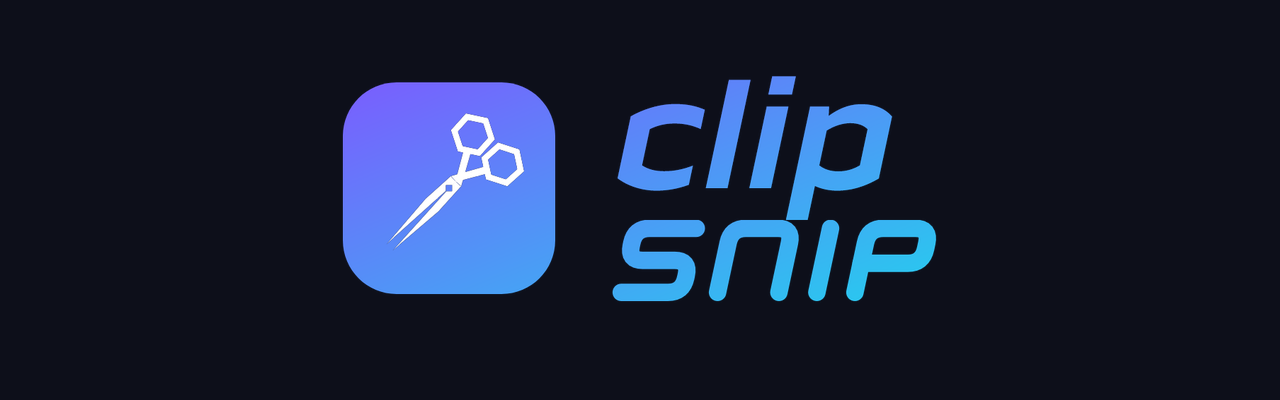
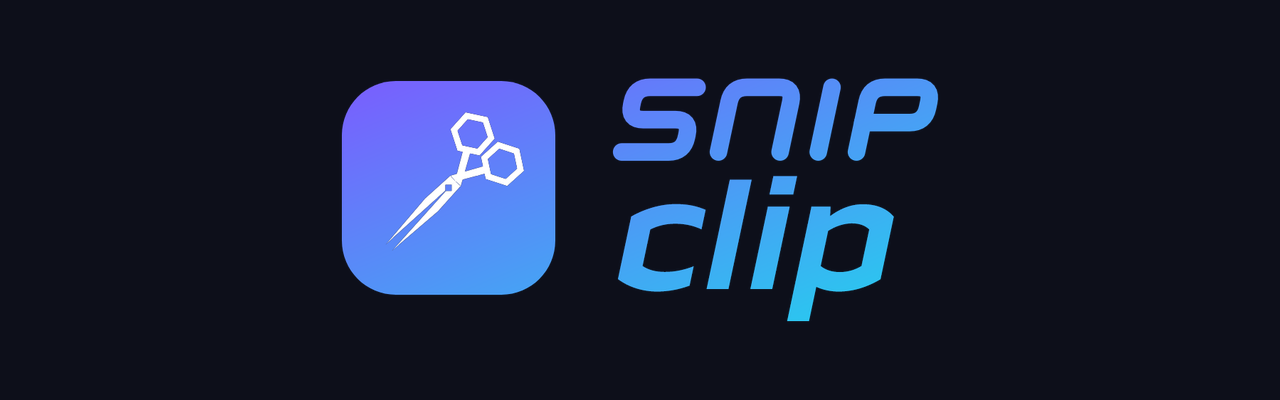
Rename the app to snip-clip
Badge and banners back to the original "SNIP / clip" art. App name, window
title, bundle identifier (io.github.snipclip.app), Rust crate, OBS profile
("snip-clip Replay") and all docs updated.

diff --git a/src/i18n/pt-BR.ts b/src/i18n/pt-BR.ts
@@ -7,7 +7,7 @@ const ptBR: Messages = {
   },
   ffmpeg: {
     missingTitle: "O FFmpeg é necessário",
-    missingBody: "O clip-snip usa o FFmpeg para ler, pré-visualizar e exportar vídeos. Ele não foi encontrado neste computador.",
+    missingBody: "O snip-clip usa o FFmpeg para ler, pré-visualizar e exportar vídeos. Ele não foi encontrado neste computador.",
     missingHow: "Por enquanto, instale o FFmpeg e deixe-o no PATH, depois tente de novo. O download pelo app está a caminho.",
     retry: "Tentar de novo",
   },

diff --git a/src/i18n/en.ts b/src/i18n/en.ts
@@ -5,7 +5,7 @@ const en = {
   },
   ffmpeg: {
     missingTitle: "FFmpeg is required",
-    missingBody: "clip-snip uses FFmpeg to read, preview and export videos. It was not found on this computer.",
+    missingBody: "snip-clip uses FFmpeg to read, preview and export videos. It was not found on this computer.",
     missingHow: "For now, install FFmpeg and make sure it is on your PATH, then retry. An in-app download is coming.",
     retry: "Retry",
   },

diff --git a/src/ui/Brand.tsx b/src/ui/Brand.tsx
@@ -5,7 +5,7 @@ export function Badge({ className = "" }: { className?: string }) {
   return (
     <span
       role="img"
-      aria-label="clip-snip"
+      aria-label="snip-clip"
       className={`inline-block text-brand-500 [--badge-inner:#fff] [&>svg]:h-full [&>svg]:w-auto ${className}`}
       dangerouslySetInnerHTML={{ __html: badgeSvg }}
     />

diff --git a/tests/integration.test.ts b/tests/integration.test.ts
@@ -12,7 +12,7 @@ import {
 } from "../src/core";
 
 const hasFfmpeg = spawnSync("ffmpeg", ["-version"]).status === 0;
-const dir = mkdtempSync(join(tmpdir(), "clip-snip-it-"));
+const dir = mkdtempSync(join(tmpdir(), "snip-clip-it-"));
 
 function makeSource(name: string, hdr: boolean): string {
   const out = join(dir, name);

diff --git a/index.html b/index.html
@@ -4,7 +4,7 @@
     <meta charset="UTF-8" />
     
     <meta name="viewport" content="width=device-width, initial-scale=1.0" />
-    <title>clip-snip</title>
+    <title>snip-clip</title>
   </head>
 
   <body>

diff --git a/extras/obs/obs-setup.py b/extras/obs/obs-setup.py
@@ -1,4 +1,4 @@
-"""Creates an OBS Studio profile and scene collection, "clip-snip Replay", tuned for clip-snip (Windows).
+"""Creates an OBS Studio profile and scene collection, "snip-clip Replay", tuned for snip-clip (Windows).
 
 Replay buffer always on, one audio track per source (game, Discord, browser, mic, system),
 saved with a hotkey. Close OBS before running. The current profile and collection with the
@@ -19,7 +19,7 @@ import sys
 import uuid
 from datetime import datetime
 
-NAME = "clip-snip Replay"
+NAME = "snip-clip Replay"
 BASIC = os.path.join(os.environ.get("APPDATA", ""), "obs-studio", "basic")
 PROFILE_DIR = os.path.join(BASIC, "profiles", NAME)
 COLLECTION = os.path.join(BASIC, "scenes", NAME.replace(" ", "_") + ".json")

diff --git a/src-tauri/src/files.rs b/src-tauri/src/files.rs
@@ -104,7 +104,7 @@ mod tests {
 
     #[test]
     fn write_read_and_prune() {
-        let dir = std::env::temp_dir().join(format!("clip-snip-files-{}", std::process::id()));
+        let dir = std::env::temp_dir().join(format!("snip-clip-files-{}", std::process::id()));
         let file = dir.join("nested").join("p.json");
         let path = file.to_string_lossy().to_string();
         assert_eq!(read_text(path.clone()).unwrap(), None);

diff --git a/src-tauri/src/main.rs b/src-tauri/src/main.rs
@@ -2,5 +2,5 @@
 #![cfg_attr(not(debug_assertions), windows_subsystem = "windows")]
 
 fn main() {
-    clip_snip_lib::run()
+    snip_clip_lib::run()
 }

diff --git a/extras/obs/README.pt-BR.md b/extras/obs/README.pt-BR.md
@@ -2,7 +2,7 @@
 
 [English](README.md) · **Português**
 
-Isto configura o OBS Studio no Windows como um gravador de "replay instantâneo" sempre ligado: os últimos minutos ficam na memória e são salvos num arquivo quando você aperta **Alt+F10**. Cada fonte de áudio ganha uma faixa própria com nome, então no clip-snip você pode tirar o Discord ou o navegador de um clipe, ou abaixar o microfone.
+Isto configura o OBS Studio no Windows como um gravador de "replay instantâneo" sempre ligado: os últimos minutos ficam na memória e são salvos num arquivo quando você aperta **Alt+F10**. Cada fonte de áudio ganha uma faixa própria com nome, então no snip-clip você pode tirar o Discord ou o navegador de um clipe, ou abaixar o microfone.
 
 | Faixa | Nome | Conteúdo |
 |---|---|---|
@@ -36,7 +36,7 @@ python obs-setup.py --lang pt
 
 Se `python` abrir a Microsoft Store, use `py obs-setup.py --lang pt`.
 
-Isso cria um perfil e uma coleção de cenas, ambos chamados **clip-snip Replay**, com:
+Isso cria um perfil e uma coleção de cenas, ambos chamados **snip-clip Replay**, com:
 
 - buffer de 3 minutos, salvo com **Alt+F10**
 - a resolução da sua tela principal a 60 fps
@@ -44,7 +44,7 @@ Isso cria um perfil e uma coleção de cenas, ambos chamados **clip-snip Replay*
 - replays salvos em `Vídeos\OBS Replays`
 - Chrome e Firefox na faixa Navegador
 
-Seus outros perfis do OBS não são alterados. Se já existir um perfil **clip-snip Replay**, ele é copiado antes para `%APPDATA%\obs-studio\basic\backup-<data>\`.
+Seus outros perfis do OBS não são alterados. Se já existir um perfil **snip-clip Replay**, ele é copiado antes para `%APPDATA%\obs-studio\basic\backup-<data>\`.
 
 ### Opções
 
@@ -90,15 +90,15 @@ Agora o OBS inicia junto com o Windows, pronto para salvar replays. Você també
 
 ### Manualmente, dentro do OBS
 
-1. Menu **Perfil** → **clip-snip Replay**.
-2. Menu **Coleção de cenas** → **clip-snip Replay**.
+1. Menu **Perfil** → **snip-clip Replay**.
+2. Menu **Coleção de cenas** → **snip-clip Replay**.
 3. Clique em **Iniciar buffer de replay** no painel *Controles*.
 
 ## 5. Confira se funciona
 
 1. Toque algo por alguns segundos: um jogo, uma call no Discord, um vídeo no navegador.
 2. Aperte **Alt+F10**. Um arquivo chamado `Replay <data> <hora>.mp4` aparece na pasta de saída.
-3. Abra no clip-snip: as faixas devem aparecer pelo nome e cada uma deve tocar só o próprio áudio.
+3. Abra no snip-clip: as faixas devem aparecer pelo nome e cada uma deve tocar só o próprio áudio.
 
 Para ver qual fonte vai para qual faixa, no OBS vá em *Editar → Propriedades avançadas de áudio*.
 
@@ -108,7 +108,7 @@ Para ver qual fonte vai para qual faixa, no OBS vá em *Editar → Propriedades 
 - **Replays mais longos.** Aumente o `--buffer`; o limite de memória cresce junto, cerca de 0,8 GB de RAM por minuto no bitrate máximo. No OBS você também pode mudar em *Configurações → Saída → Buffer de replay*, nos campos *Tempo máximo* e *Memória máxima*. Vale o limite que for atingido primeiro, então aumente os dois juntos.
 - **Outro atalho.** Mude no OBS em *Configurações → Atalhos → Salvar replay*.
 - **Desfazer.** Escolha outro perfil e outra coleção de cenas no OBS. Para restaurar uma versão anterior, feche o OBS e copie os arquivos de volta de `%APPDATA%\obs-studio\basic\backup-<data>\`:
-  - a pasta `profile-clip-snip Replay` vai para `profiles\clip-snip Replay`;
+  - a pasta `profile-snip-clip Replay` vai para `profiles\snip-clip Replay`;
   - o arquivo `.json` vai para `scenes\`.
 
 Os nomes dos menus do OBS acima são os da interface em português e podem variar um pouco entre versões.

diff --git a/extras/obs/README.md b/extras/obs/README.md
@@ -2,7 +2,7 @@
 
 **English** · [Português](README.pt-BR.md)
 
-This sets OBS Studio up as an always-on "instant replay" recorder on Windows: the last few minutes are kept in memory and saved to a file when you press **Alt+F10**. Every audio source gets its own named track, so in clip-snip you can drop Discord or the browser from a clip, or turn your mic down.
+This sets OBS Studio up as an always-on "instant replay" recorder on Windows: the last few minutes are kept in memory and saved to a file when you press **Alt+F10**. Every audio source gets its own named track, so in snip-clip you can drop Discord or the browser from a clip, or turn your mic down.
 
 | Track | Name | Contents |
 |---|---|---|
@@ -34,7 +34,7 @@ python obs-setup.py
 
 If `python` opens the Microsoft Store, use `py obs-setup.py` instead.
 
-That creates a profile and a scene collection, both named **clip-snip Replay**, with:
+That creates a profile and a scene collection, both named **snip-clip Replay**, with:
 
 - a 3-minute buffer, saved with **Alt+F10**
 - your main screen's resolution at 60 fps
@@ -43,7 +43,7 @@ That creates a profile and a scene collection, both named **clip-snip Replay**, 
 - Chrome and Firefox on the Browser track
 - track names in your Windows display language (English or Portuguese)
 
-Your other OBS profiles are not touched. If a **clip-snip Replay** profile already exists, it is backed up to `%APPDATA%\obs-studio\basic\backup-<date>\` first.
+Your other OBS profiles are not touched. If a **snip-clip Replay** profile already exists, it is backed up to `%APPDATA%\obs-studio\basic\backup-<date>\` first.
 
 ### Options
 
@@ -89,15 +89,15 @@ OBS will now start with Windows, ready to save replays. You can also double-clic
 
 ### By hand, inside OBS
 
-1. **Profile** menu → **clip-snip Replay**.
-2. **Scene Collection** menu → **clip-snip Replay**.
+1. **Profile** menu → **snip-clip Replay**.
+2. **Scene Collection** menu → **snip-clip Replay**.
 3. Click **Start Replay Buffer** in the *Controls* panel.
 
 ## 5. Check that it works
 
 1. Play something for a few seconds: a game, a Discord call, a video in the browser.
 2. Press **Alt+F10**. A file named `Replay <date> <time>.mp4` appears in the output folder.
-3. Open it in clip-snip: the tracks should be listed by name and each one should play only its own audio.
+3. Open it in snip-clip: the tracks should be listed by name and each one should play only its own audio.
 
 To see which source goes to which track, go to OBS → *Edit → Advanced Audio Properties*.
 
@@ -107,5 +107,5 @@ To see which source goes to which track, go to OBS → *Edit → Advanced Audio 
 - **Longer replays.** Raise `--buffer`; the memory limit grows to match, about 0.8 GB of RAM per minute at the peak bitrate. In OBS you can also change *Settings → Output → Replay Buffer → Maximum Replay Time* and *Maximum Memory*. Whichever limit is reached first wins, so raise both together.
 - **Different hotkey.** Change it in OBS under *Settings → Hotkeys → Save Replay*.
 - **Undo.** Pick another profile and scene collection in OBS. To restore a previous version, close OBS and copy the files back from `%APPDATA%\obs-studio\basic\backup-<date>\`:
-  - the `profile-clip-snip Replay` folder goes to `profiles\clip-snip Replay`;
+  - the `profile-snip-clip Replay` folder goes to `profiles\snip-clip Replay`;
   - the `.json` file goes to `scenes\`.

diff --git a/README.pt-BR.md b/README.pt-BR.md
@@ -1,11 +1,11 @@
 <p align="center">
   <picture>
     <source media="(prefers-color-scheme: dark)" srcset="assets/brand/banner-dark.png">
-    <img src="assets/brand/banner-light.png" alt="clip-snip" width="640">
+    <img src="assets/brand/banner-light.png" alt="snip-clip" width="640">
   </picture>
 </p>
 
-# clip-snip
+# snip-clip
 
 [English](README.md) · **Português**
 
@@ -25,14 +25,14 @@ Recorte um ou vários micro-clipes de gravações de jogos (replays do OBS, app 
 ## Instalação (beta para Windows)
 
 1. Instale o FFmpeg e deixe-o no `PATH`, por exemplo com `winget install Gyan.FFmpeg`. Abra um terminal novo e confira com `ffmpeg -version`.
-2. Baixe o `clip-snip_<versão>_x64-setup.exe` em [Releases](https://github.com/NegentropyBeing/clip-snip/releases) e execute.
+2. Baixe o `snip-clip_<versão>_x64-setup.exe` em [Releases](https://github.com/NegentropyBeing/snip-clip/releases) e execute.
 3. O instalador ainda não tem assinatura digital, então o Windows SmartScreen pode avisar. Clique em *Mais informações → Executar assim mesmo*.
 
 Os clipes exportados vão para `Vídeos\Clips`.
 
 ## Gravando com o OBS (Windows)
 
-A pasta [`extras/obs/`](extras/obs) configura o OBS Studio como um gravador de "replay instantâneo" com os arquivos que o clip-snip aproveita melhor: o replay buffer fica sempre ligado (salve com **Alt+F10**) e cada fonte vai para uma faixa de áudio própria com nome (*Mix, Jogo, Discord, Navegador, Microfone, Sistema*), para você poder tirar o Discord ou o navegador de um clipe depois.
+A pasta [`extras/obs/`](extras/obs) configura o OBS Studio como um gravador de "replay instantâneo" com os arquivos que o snip-clip aproveita melhor: o replay buffer fica sempre ligado (salve com **Alt+F10**) e cada fonte vai para uma faixa de áudio própria com nome (*Mix, Jogo, Discord, Navegador, Microfone, Sistema*), para você poder tirar o Discord ou o navegador de um clipe depois.
 
 > [!IMPORTANT]
 > **Desligue o NVIDIA Instant Replay (ShadowPlay) antes de usar este perfil.** Os dois usam **Alt+F10** para salvar o replay, e com os dois ligados ficam dois replay buffers e dois encoders de GPU ocupados, dobrando o uso de RAM e de encoder. No app da NVIDIA, pressione **Alt+Z** e desligue o **Instant Replay**.
@@ -43,7 +43,7 @@ Para os nomes das faixas em português, crie o perfil com `--lang pt`.
 
 ## Privacidade
 
-O clip-snip **não tem telemetria**: nada de analytics, dados de uso ou relatórios de erro. Ele só acessa a internet para baixar o FFmpeg (depois que você confirmar) e para consultar o GitHub Releases em busca de versão nova.
+O snip-clip **não tem telemetria**: nada de analytics, dados de uso ou relatórios de erro. Ele só acessa a internet para baixar o FFmpeg (depois que você confirmar) e para consultar o GitHub Releases em busca de versão nova.
 
 ## Desenvolvimento
 

diff --git a/README.md b/README.md
@@ -1,11 +1,11 @@
 <p align="center">
   <picture>
     <source media="(prefers-color-scheme: dark)" srcset="assets/brand/banner-dark.png">
-    <img src="assets/brand/banner-light.png" alt="clip-snip" width="640">
+    <img src="assets/brand/banner-light.png" alt="snip-clip" width="640">
   </picture>
 </p>
 
-# clip-snip
+# snip-clip
 
 **English** · [Português](README.pt-BR.md)
 
@@ -25,14 +25,14 @@ Cut one or many micro-clips from game recordings (OBS replays, NVIDIA app, anyth
 ## Install (Windows beta)
 
 1. Install FFmpeg and make sure it is on your `PATH`, for example with `winget install Gyan.FFmpeg`. Open a new terminal and check with `ffmpeg -version`.
-2. Download `clip-snip_<version>_x64-setup.exe` from [Releases](https://github.com/NegentropyBeing/clip-snip/releases) and run it.
+2. Download `snip-clip_<version>_x64-setup.exe` from [Releases](https://github.com/NegentropyBeing/snip-clip/releases) and run it.
 3. The installer is not code-signed yet, so Windows SmartScreen may warn. Choose *More info → Run anyway*.
 
 Exported clips go to `Videos\Clips`.
 
 ## Recording with OBS (Windows)
 
-[`extras/obs/`](extras/obs) sets OBS Studio up as an "instant replay" recorder whose files clip-snip handles best: the replay buffer is always on (save with **Alt+F10**), and every source goes to its own named audio track (*Mix, Game, Discord, Browser, Mic, System*), so you can drop Discord or the browser from a clip later.
+[`extras/obs/`](extras/obs) sets OBS Studio up as an "instant replay" recorder whose files snip-clip handles best: the replay buffer is always on (save with **Alt+F10**), and every source goes to its own named audio track (*Mix, Game, Discord, Browser, Mic, System*), so you can drop Discord or the browser from a clip later.
 
 > [!IMPORTANT]
 > **Turn off NVIDIA Instant Replay (ShadowPlay) before using this profile.** Both use **Alt+F10** to save a replay, and running both keeps two replay buffers and two GPU encoders busy, doubling RAM use and encoder load. In the NVIDIA app, press **Alt+Z** and switch **Instant Replay** off.
@@ -41,7 +41,7 @@ Exported clips go to `Videos\Clips`.
 
 ## Privacy
 
-clip-snip has **no telemetry**: no analytics, no usage data, no crash reports. It only goes online to download FFmpeg (after you confirm) and to check GitHub Releases for a new version.
+snip-clip has **no telemetry**: no analytics, no usage data, no crash reports. It only goes online to download FFmpeg (after you confirm) and to check GitHub Releases for a new version.
 
 ## Development
 
